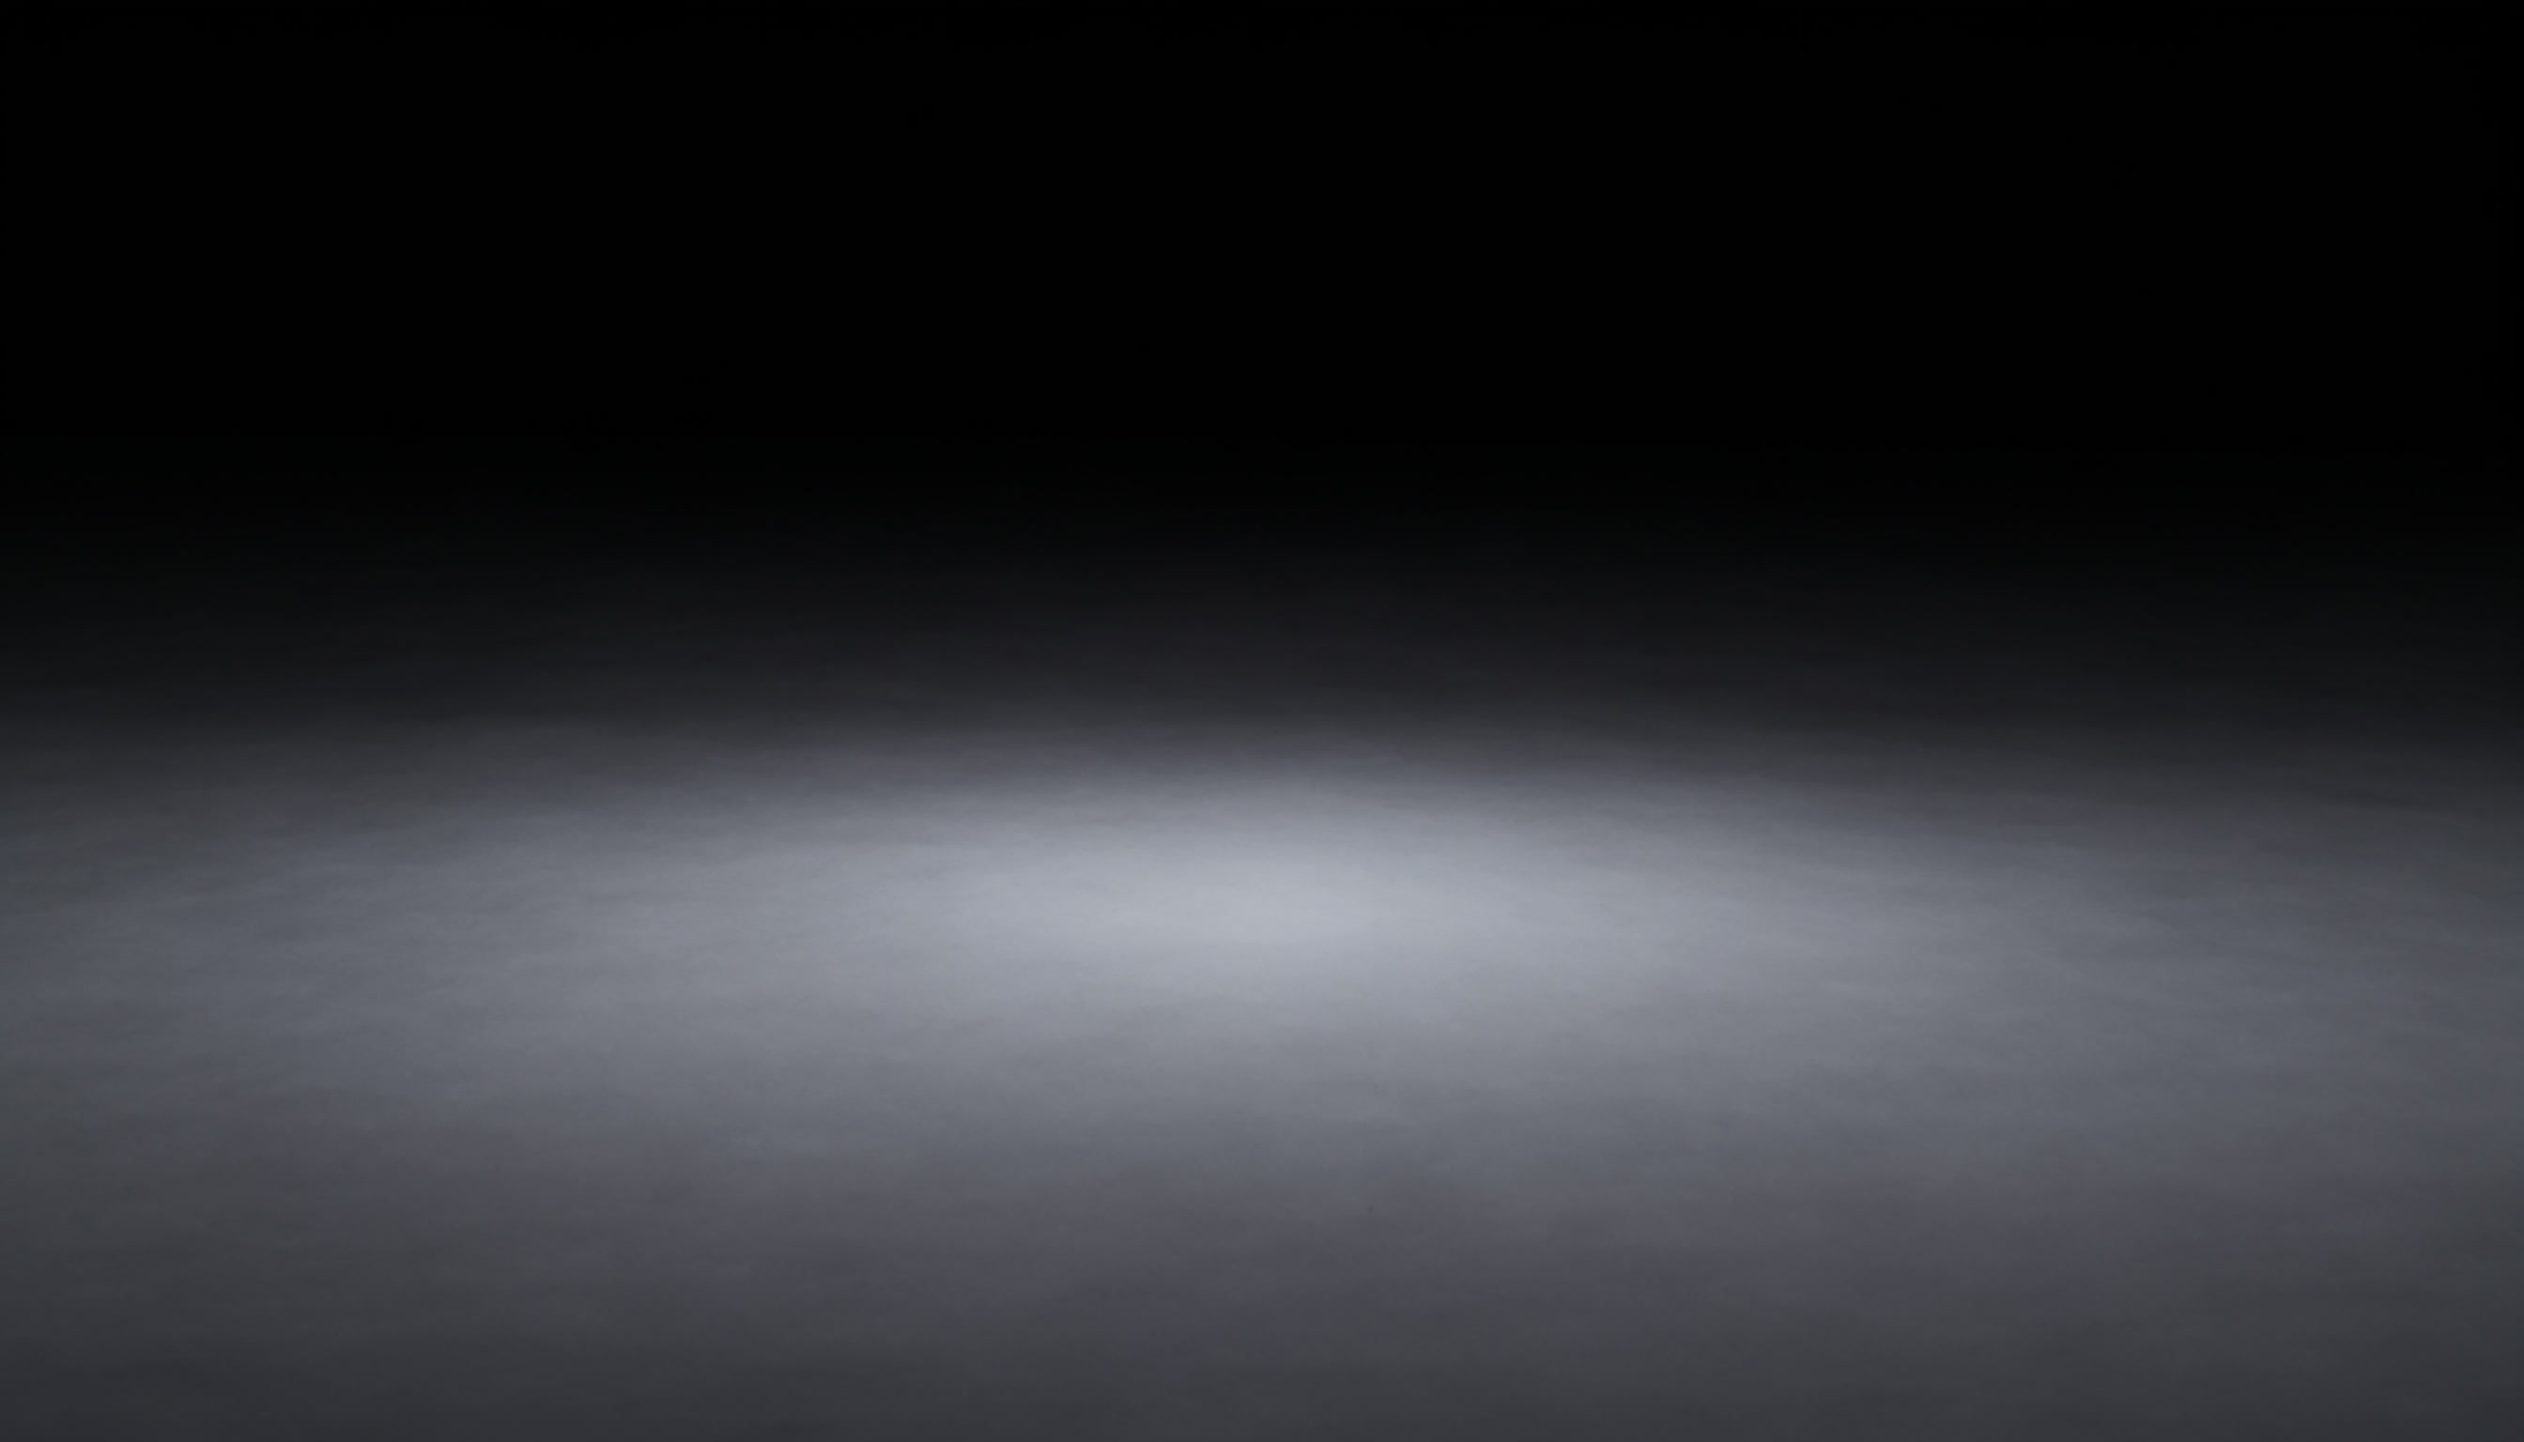
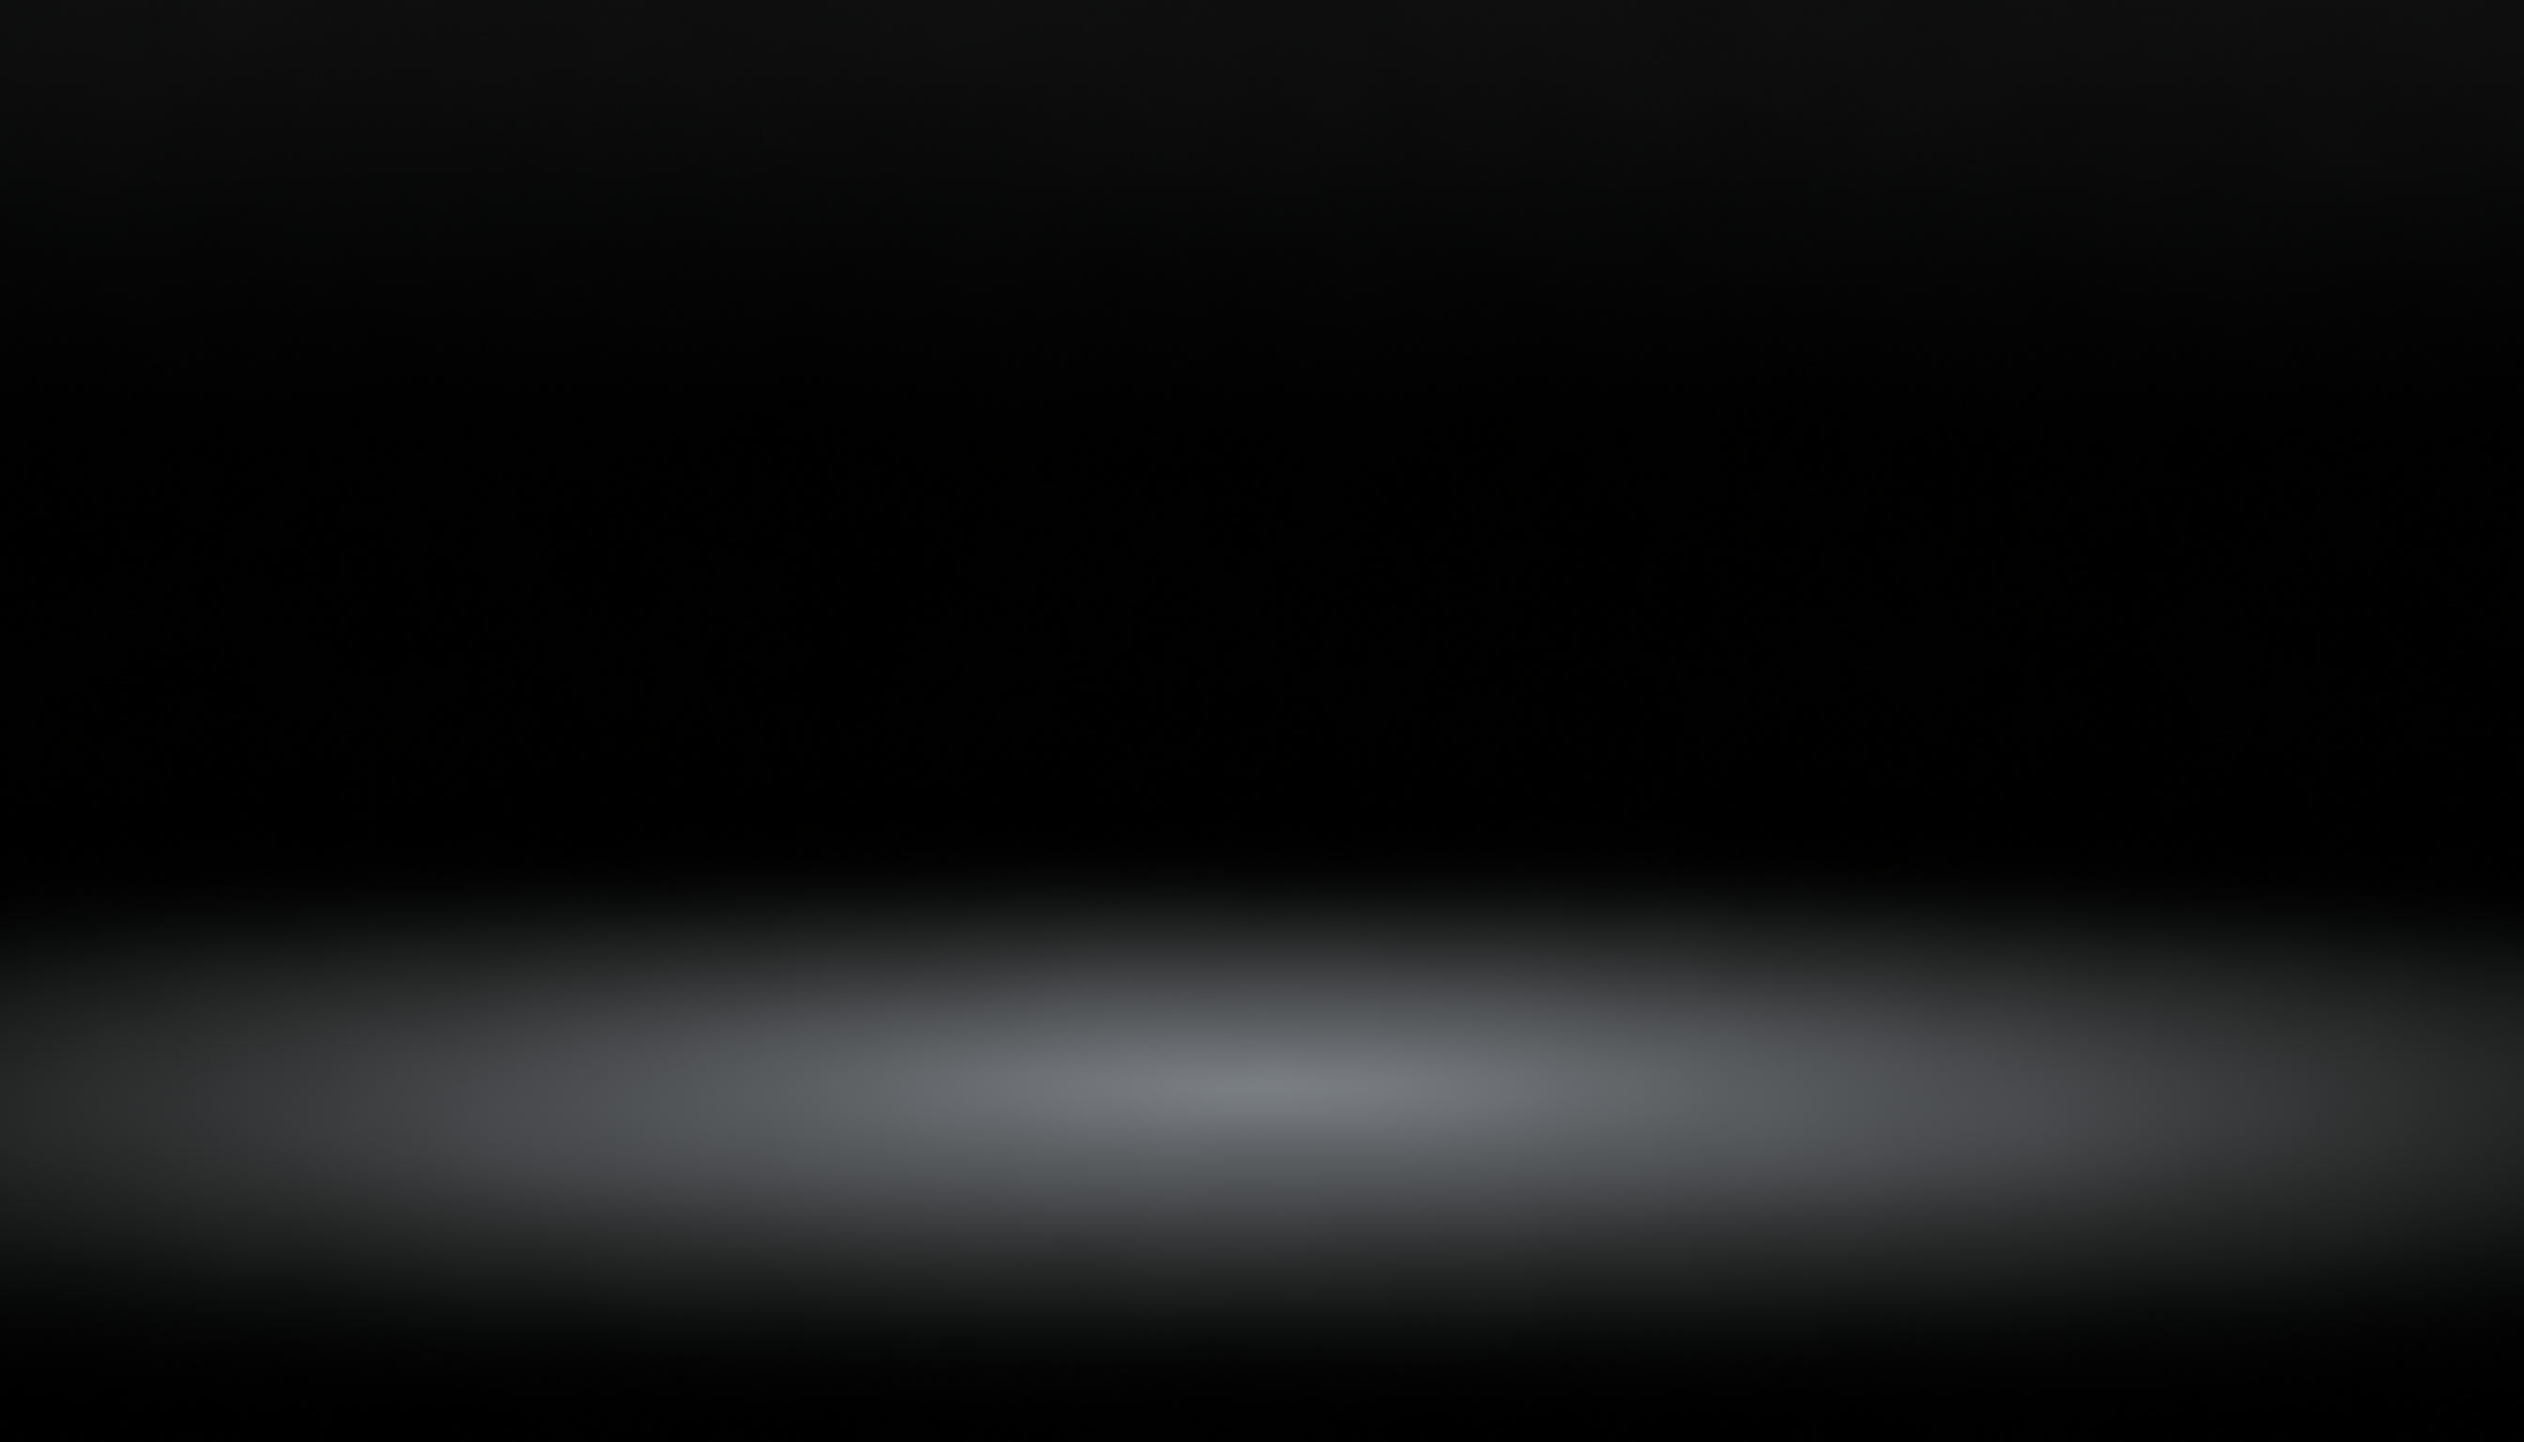
Salle 3D supprimee (sol masque), fond neutre refait propre, cache-bust des fonds

diff --git a/index.html b/index.html
@@ -344,7 +344,7 @@ function radialTexture(inner, mid){
 const texLoader = new THREE.TextureLoader();
 const BGTEX = {};
 ['bios','os','timer','flux','neutral'].forEach(k => {
-  BGTEX[k] = texLoader.load('assets/bg/bg-' + k + '.jpg', t => { t.colorSpace = THREE.SRGBColorSpace; });
+  BGTEX[k] = texLoader.load('assets/bg/bg-' + k + '.jpg?v=3', t => { t.colorSpace = THREE.SRGBColorSpace; });
 });
 const BG_W = 124, BG_H = BG_W * 9/16;
 const bgA = new THREE.Mesh(new THREE.PlaneGeometry(BG_W, BG_H),
@@ -367,7 +367,7 @@ const floor = new THREE.Mesh(
   new THREE.PlaneGeometry(90, 90),
   new THREE.MeshStandardMaterial({ color:0x0e0d14, roughness:.42, metalness:.55, transparent:true })
 );
-floor.rotation.x = -Math.PI/2; floor.position.y = -2.05; scene.add(floor);
+floor.rotation.x = -Math.PI/2; floor.position.y = -2.05; floor.visible = false; /* plus de salle 3D : le sol est dans l'image de fond */
 
 const halo = new THREE.Mesh(
   new THREE.PlaneGeometry(9,9),
